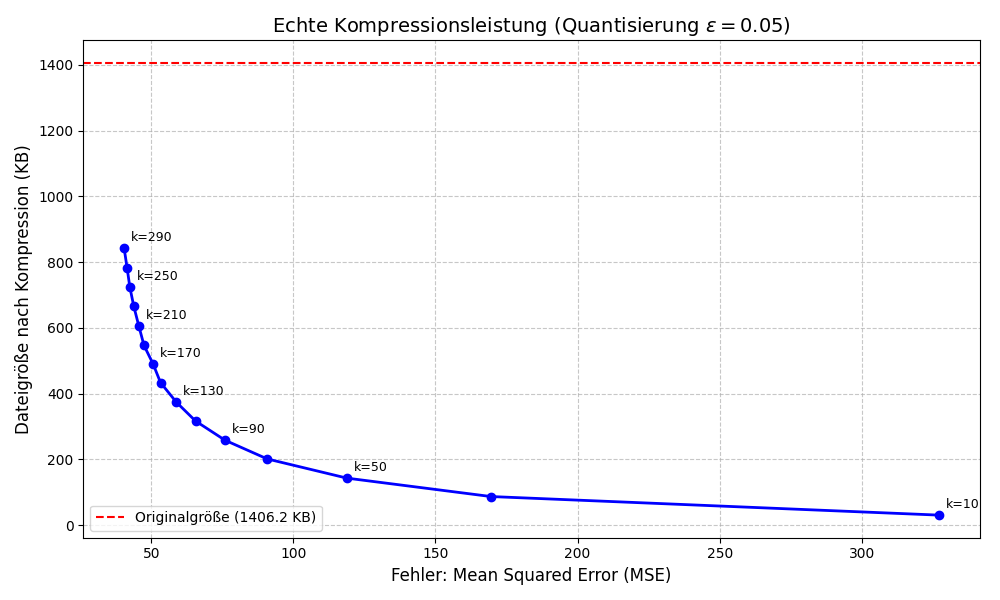
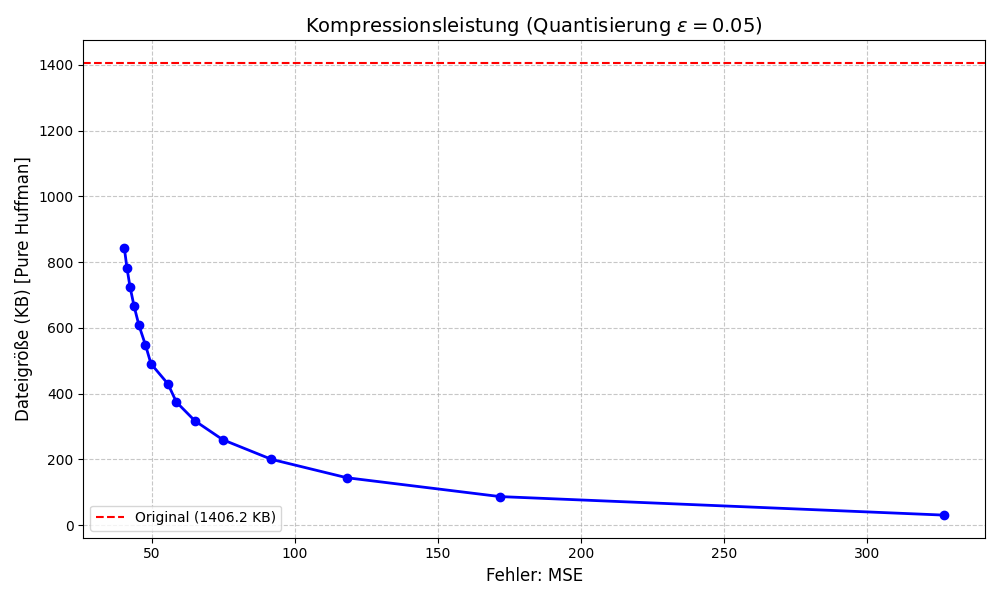
add benchmark and results to eigenfaces

diff --git a/src/rand_eigenfaces.py b/src/rand_eigenfaces.py
@@ -19,7 +19,7 @@ n_comp_calc = 60             # k
 
 # results['method_name'][seed] = vt_matrix
 results = {
-    'stable': {},   # n_iter = 2
+    'stable': {},   # n_iter = 10
     'unstable': {}  # n_iter = 0
 }
 
@@ -85,6 +85,63 @@ fig.text(0.72, 0.95, "Ohne Power Iterations",
 plt.tight_layout()
 plt.subplots_adjust(top=0.88, left=0.05) # Platz für Header lassen
 plt.savefig('rsvd_eigenfaces_depth_comparison.png', dpi=300)
+plt.show()
+
+# --- ZUSATZ: Quantitativer Vergleich (Euklidische Distanz) ---
+print("Berechne euklidische Distanzen...")
+
+distances_stable = []
+distances_unstable = []
+
+# Matrizen für Seed 1 und Seed 2 extrahieren
+vt_stable_A = results['stable'][seeds[0]]
+vt_stable_B = results['stable'][seeds[1]]
+
+vt_unstable_A = results['unstable'][seeds[0]]
+vt_unstable_B = results['unstable'][seeds[1]]
+
+for i in range(n_comp_calc):
+    # 1. Stabile Version (n_iter = 10)
+    vA_s = vt_stable_A[i]
+    vB_s = vt_stable_B[i]
+    # Vorzeichen-Ambiguität abfangen: min(||vA - vB||, ||vA + (-vB)||)
+    dist_s = min(np.linalg.norm(vA_s - vB_s), np.linalg.norm(vA_s + vB_s))
+    distances_stable.append(dist_s)
+    
+    # 2. Instabile Version (n_iter = 0)
+    vA_u = vt_unstable_A[i]
+    vB_u = vt_unstable_B[i]
+    dist_u = min(np.linalg.norm(vA_u - vB_u), np.linalg.norm(vA_u + vB_u))
+    distances_unstable.append(dist_u)
+
+# Plotting des Graphen
+fig_dist, ax_dist = plt.subplots(figsize=(10, 6))
+
+x_axis = np.arange(1, n_comp_calc + 1) # x-Achse: 1 bis 60
+
+ax_dist.plot(x_axis, distances_unstable, label='Ohne Power Iterations ($q=0$)', 
+             color='red', marker='o', markersize=4, linestyle='-', alpha=0.7)
+ax_dist.plot(x_axis, distances_stable, label='Mit Power Iterations ($q=10$)', 
+             color='blue', marker='s', markersize=4, linestyle='-', alpha=0.8)
+
+# Achsenbeschriftung und Design
+ax_dist.set_title("Euklidische Distanz der Eigenfaces zwischen zwei Random-Seeds", fontsize=14, pad=15)
+ax_dist.set_xlabel("Index des Eigenfaces ($k$)", fontsize=12)
+ax_dist.set_ylabel("Minimale Euklidische Distanz", fontsize=12)
+
+
+# ax_dist.set_yscale('log')
+
+ax_dist.grid(True, linestyle='--', alpha=0.6)
+ax_dist.legend(fontsize=12, loc='upper left')
+
+# Markiere die Indizes der geplotteten Eigenfaces mit vertikalen Linien und Text
+for idx in [0, 9, 49]:
+    ax_dist.axvline(x=idx+1, color='gray', linestyle=':', alpha=0.5)
+    ax_dist.text(idx+1.5, ax_dist.get_ylim()[1]*0.8, f'{idx+1}. EF', color='gray', fontsize=10)
+
+plt.tight_layout()
+plt.savefig('rsvd_quantitative_distance.png', dpi=300)
 plt.show()
 
 

diff --git a/src/svd_komprimierung.py b/src/svd_komprimierung.py
@@ -220,7 +220,7 @@ def plot_compression_methods_comparison(original_img, epsilon=0.01):
     c = 1 if len(original_img.shape) == 2 else original_img.shape[2]
     original_kb = (m * n * c) / 1024
     
-    k_values = list(range(10, 310, 30))
+    k_values = list(range(10, 600, 30))
     
     # Listen für die 3 Methoden
     s_pure = []
